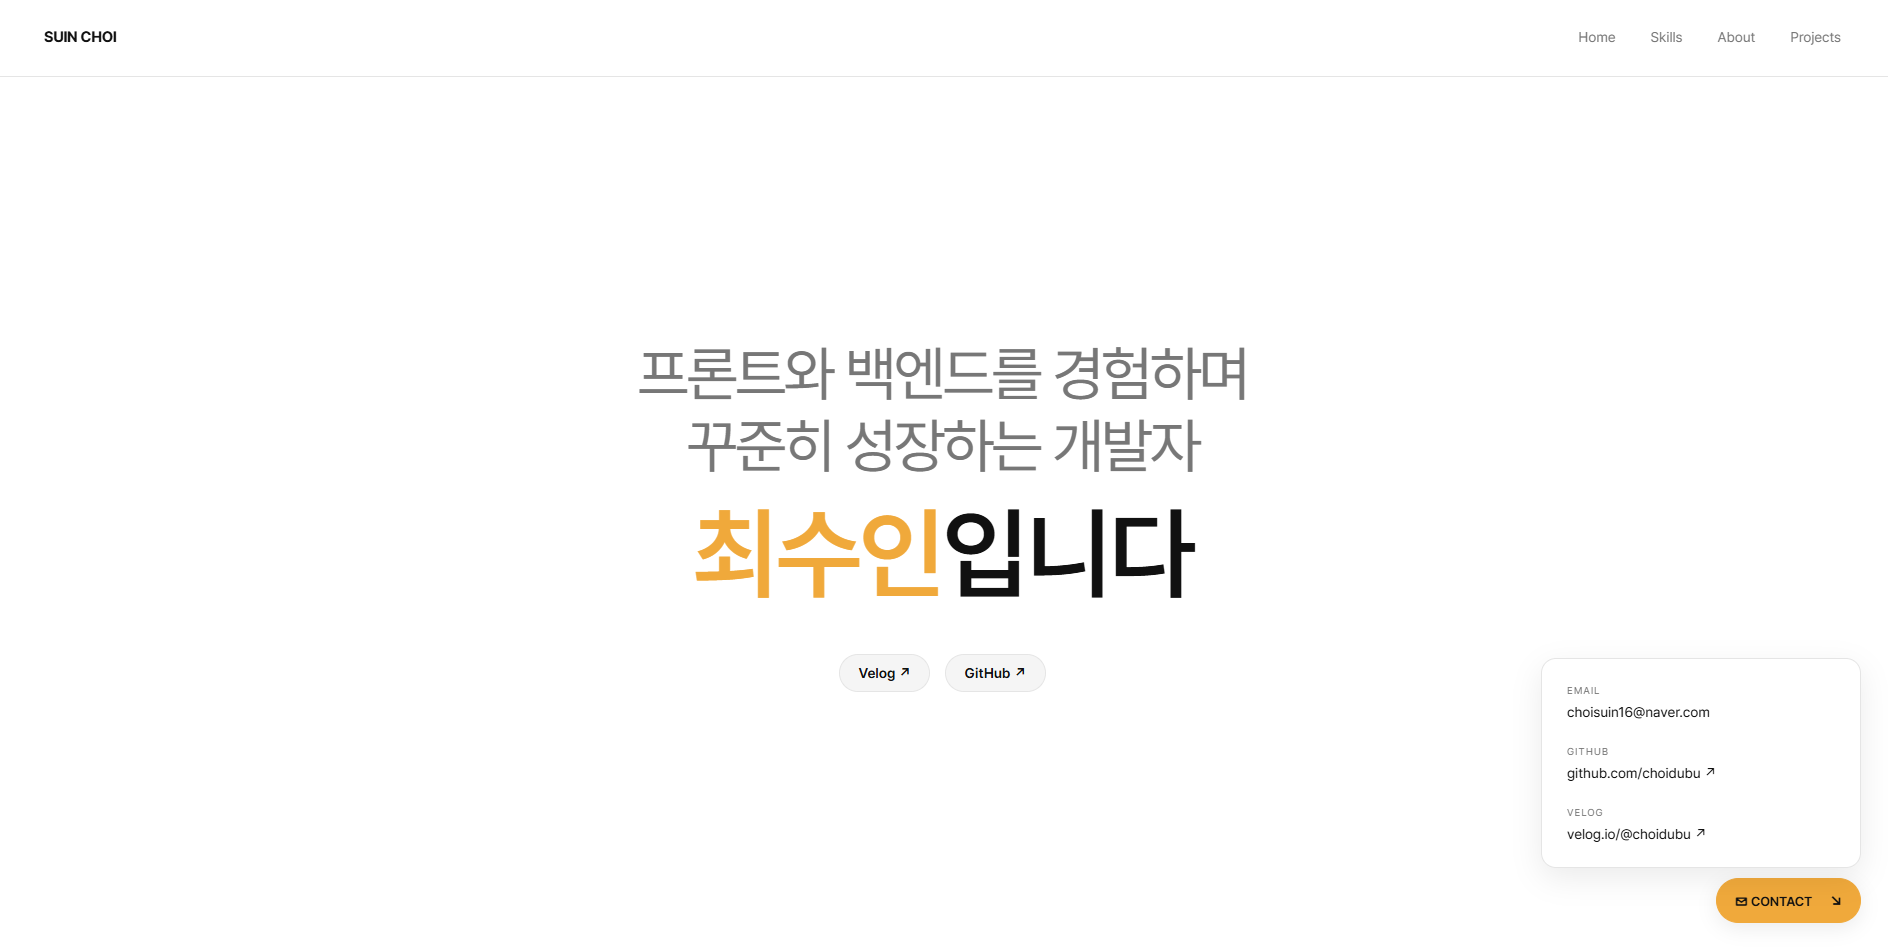
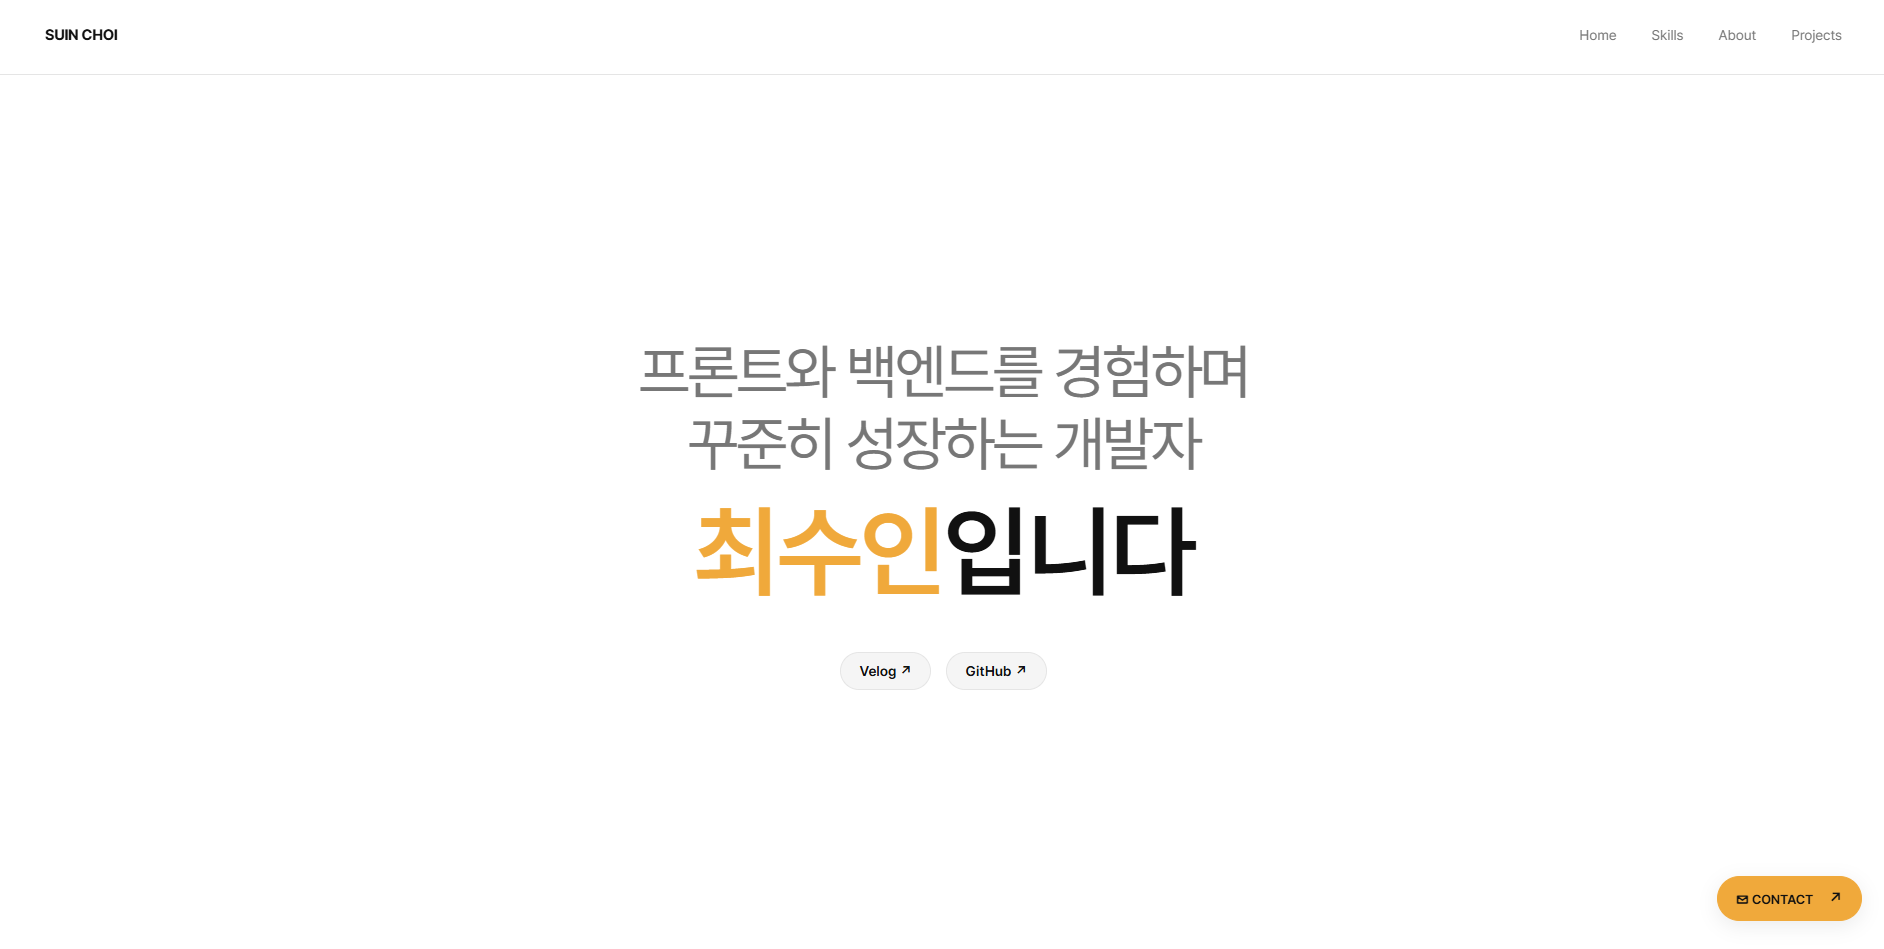
포트폴리오 공유 이미지 수정

diff --git a/index.html b/index.html
@@ -14,6 +14,10 @@
 
     <title>최수인의 포트폴리오</title>
 
+    <meta property="og:image" content="https://choidubu.github.io/Suin-s-Portfolio/assets/images/suinsportfolio.jpg">
+
+    <meta property="og:url" content="https://choidubu.github.io/Suin-s-Portfolio/">
+
     <link rel="stylesheet" href="./css/style.css">
 
 </head>
